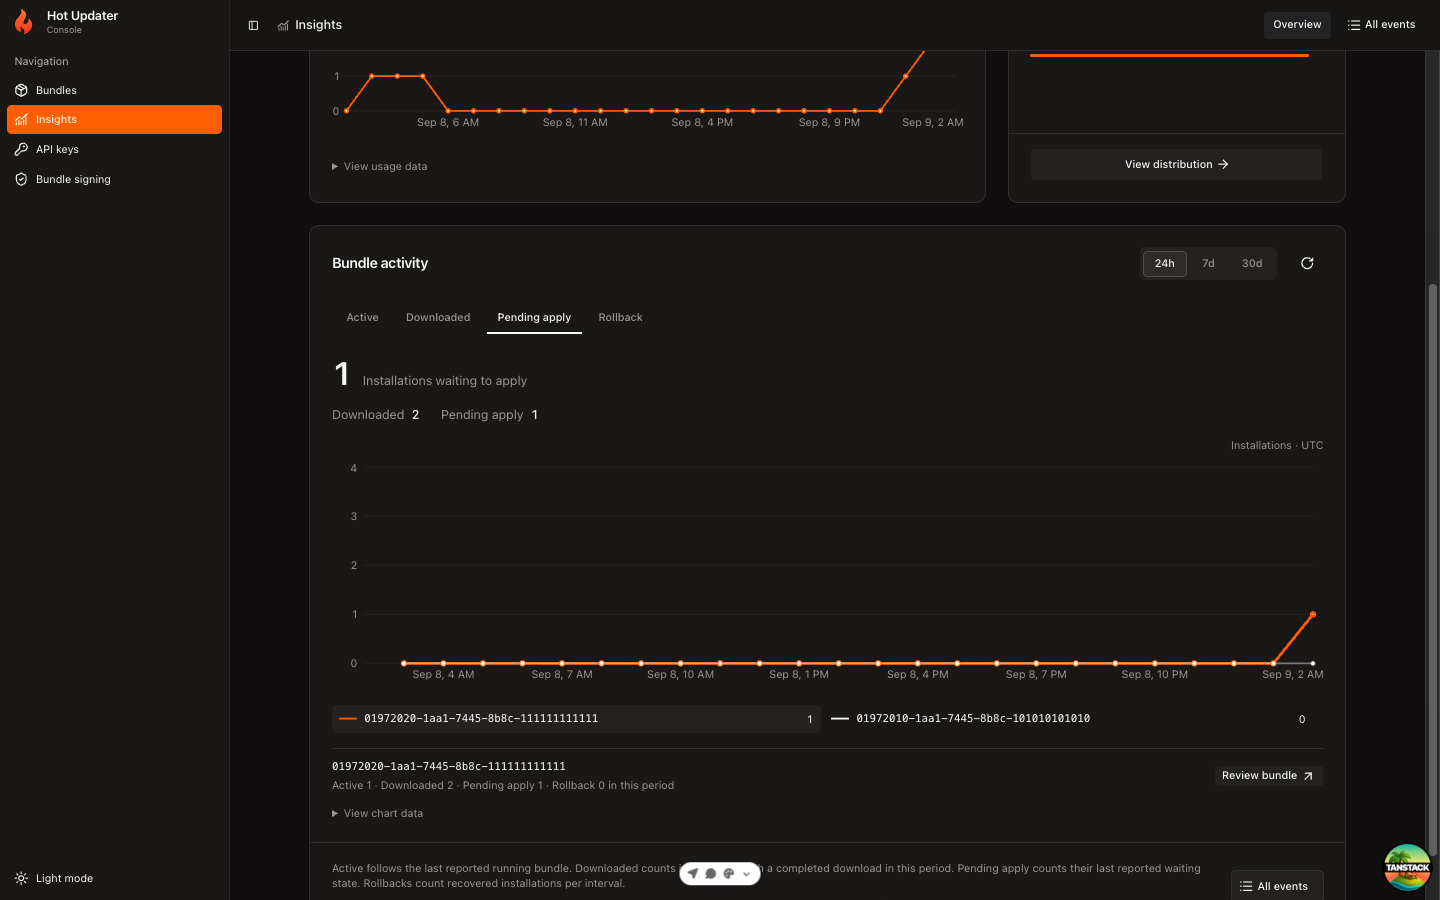
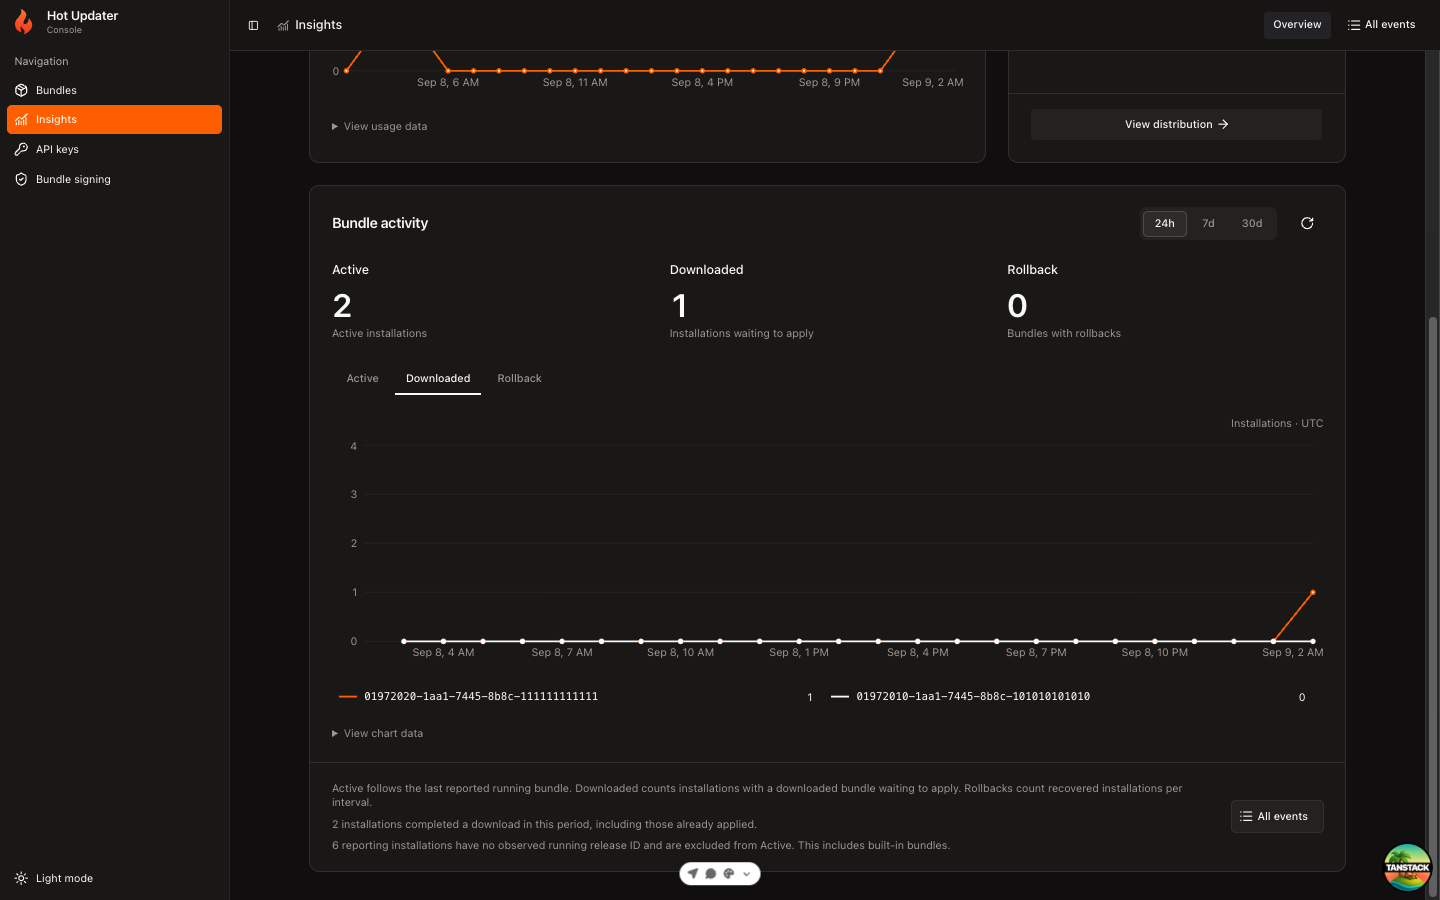
fix(console): keep lifecycle totals visible above chart tabs

diff --git a/packages/console/src/components/features/insights/InsightsOverview.tsx b/packages/console/src/components/features/insights/InsightsOverview.tsx
@@ -54,12 +54,6 @@ const activityMetrics = {
   },
   downloaded: {
     label: "Downloaded",
-    summary: "Downloaded installations",
-    point: "downloadedInstallations",
-    total: "downloadedInstallations",
-  },
-  pending: {
-    label: "Pending apply",
     summary: "Installations waiting to apply",
     point: "pendingInstallations",
     total: "pendingInstallations",
@@ -102,20 +96,16 @@ export function ActivityChart({ report }: { readonly report: RecoveryReport }) {
   const lastSpike = selected
     ? [...selected.points].reverse().find((point) => point.spike)
     : undefined;
-  const total =
-    metric === "rollback"
-      ? report.series.filter((series) => series.recoveredInstallations > 0)
-          .length
-      : metric === "downloaded"
-        ? report.downloadedInstallations
-        : metric === "pending"
-          ? report.pendingInstallations
-          : report.series.reduce(
-              (sum, series) => sum + series[metricInfo.total],
-              0,
-            );
-  const downloaded = report.downloadedInstallations;
-  const pending = report.pendingInstallations;
+  const totals = {
+    active: report.series.reduce(
+      (sum, series) => sum + series.activeInstallations,
+      0,
+    ),
+    downloaded: report.pendingInstallations,
+    rollback: report.series.filter(
+      (series) => series.recoveredInstallations > 0,
+    ).length,
+  };
   return (
     <Tabs
       value={metric}
@@ -125,6 +115,22 @@ export function ActivityChart({ report }: { readonly report: RecoveryReport }) {
       }}
       className="gap-6"
     >
+      <dl
+        aria-label="Bundle activity overview"
+        className="grid grid-cols-1 gap-5 sm:grid-cols-3 sm:gap-6"
+      >
+        {Object.entries(activityMetrics).map(([value, { label, summary }]) => (
+          <div key={value} className="flex flex-col gap-2">
+            <dt className="text-sm font-medium">{label}</dt>
+            <dd className="flex flex-col gap-1">
+              <span className="text-4xl font-semibold tracking-tight tabular-nums">
+                {totals[value as keyof typeof totals].toLocaleString()}
+              </span>
+              <span className="text-xs text-muted-foreground">{summary}</span>
+            </dd>
+          </div>
+        ))}
+      </dl>
       <TabsList
         aria-label="Activity metric"
         variant="line"
@@ -137,29 +143,6 @@ export function ActivityChart({ report }: { readonly report: RecoveryReport }) {
         ))}
       </TabsList>
       <TabsContent value={metric} className="flex flex-col gap-4">
-        <div className="flex items-baseline gap-3">
-          <p className="text-4xl font-semibold tracking-tight tabular-nums">
-            {total.toLocaleString()}
-          </p>
-          <p className="text-sm text-muted-foreground">{metricInfo.summary}</p>
-        </div>
-        <dl
-          className="flex flex-wrap gap-x-6 gap-y-2 text-sm"
-          aria-label="Download summary"
-        >
-          <div className="flex items-baseline gap-2">
-            <dt className="text-muted-foreground">Downloaded</dt>
-            <dd className="font-medium tabular-nums">
-              {downloaded.toLocaleString()}
-            </dd>
-          </div>
-          <div className="flex items-baseline gap-2">
-            <dt className="text-muted-foreground">Pending apply</dt>
-            <dd className="font-medium tabular-nums">
-              {pending.toLocaleString()}
-            </dd>
-          </div>
-        </dl>
         {report.series.length === 0 ? (
           <div className="flex h-48 items-center justify-center text-center text-sm text-muted-foreground">
             No bundle reports in this period. Try another channel or check again
@@ -169,7 +152,7 @@ export function ActivityChart({ report }: { readonly report: RecoveryReport }) {
           <>
             <div>
               <p className="mb-2 text-right text-xs text-muted-foreground">
-                {metric === "active" || metric === "pending"
+                {metric !== "rollback"
                   ? "Installations"
                   : `${metricInfo.label} installations per interval`}{" "}
                 · UTC
@@ -301,10 +284,8 @@ export function ActivityChart({ report }: { readonly report: RecoveryReport }) {
                   </p>
                   <p className="mt-1 text-xs text-muted-foreground">
                     Active {selected.activeInstallations.toLocaleString()} ·
-                    Downloaded{" "}
-                    {selected.downloadedInstallations.toLocaleString()} ·
-                    Pending apply{" "}
-                    {selected.pendingInstallations.toLocaleString()} · Rollback{" "}
+                    Downloaded {selected.pendingInstallations.toLocaleString()}{" "}
+                    waiting to apply · Rollback{" "}
                     {selected.recoveredInstallations.toLocaleString()} in this
                     period
                   </p>
@@ -447,9 +428,13 @@ export function InsightsOverview({
             <>
               <p>
                 Active follows the last reported running bundle. Downloaded
-                counts installations with a completed download in this period.
-                Pending apply counts their last reported waiting state.
+                counts installations with a downloaded bundle waiting to apply.
                 Rollbacks count recovered installations per interval.
+              </p>
+              <p>
+                {query.data.downloadedInstallations.toLocaleString()}{" "}
+                installations completed a download in this period, including
+                those already applied.
               </p>
               {query.data.unattributedInstallations > 0 ? (
                 <p>

diff --git a/packages/console/src/components/features/bundles/BundleInsightsSummary.tsx b/packages/console/src/components/features/bundles/BundleInsightsSummary.tsx
@@ -35,7 +35,7 @@ export function BundleMovementSummary({
       title={
         report.truncated
           ? "Partial history. Counts include only the available reports."
-          : "Active: last observed ID per installation. Rollbacks: distinct installations recovered from this ID in 30 days."
+          : "Active: last observed running ID per installation. Downloaded: waiting to apply. Rollbacks: distinct installations recovered from this ID in 30 days."
       }
       className="flex min-w-[140px] items-baseline gap-3 whitespace-nowrap"
     >
@@ -52,7 +52,7 @@ export function BundleMovementSummary({
         </span>
       </span>
       <span className="flex items-baseline gap-1.5">
-        <span className="text-xs text-muted-foreground">Pending apply</span>
+        <span className="text-xs text-muted-foreground">Downloaded</span>
         <span className="text-sm font-medium tabular-nums">
           {series?.pendingInstallations ?? 0}
         </span>
@@ -103,7 +103,7 @@ export function BundleInsightsSummary({
           </div>
         ) : (
           <>
-            <dl className="grid grid-cols-2 gap-4 sm:grid-cols-4">
+            <dl className="grid grid-cols-3 gap-4">
               <div className="pr-4">
                 <dt className="text-xs text-muted-foreground">Active</dt>
                 <dd className="mt-1 text-xl font-semibold tabular-nums">
@@ -119,15 +119,7 @@ export function BundleInsightsSummary({
                 </dd>
               </div>
               <div>
-                <dt className="text-xs text-muted-foreground">
-                  Downloaded · 24h
-                </dt>
-                <dd className="mt-1 text-xl font-semibold tabular-nums">
-                  {series?.downloadedInstallations ?? 0}
-                </dd>
-              </div>
-              <div>
-                <dt className="text-xs text-muted-foreground">Pending apply</dt>
+                <dt className="text-xs text-muted-foreground">Downloaded</dt>
                 <dd className="mt-1 text-xl font-semibold tabular-nums">
                   {series?.pendingInstallations ?? 0}
                 </dd>
@@ -135,7 +127,8 @@ export function BundleInsightsSummary({
             </dl>
             <BundleActivityChart series={series} />
             <p className="text-xs text-muted-foreground">
-              Last observed active installations · hourly rollbacks
+              Downloaded bundles are waiting to apply. Active follows the
+              running bundle. Rollbacks are counted per hour.
               {report?.truncated ? " · Partial history" : ""}
             </p>
           </>

diff --git a/packages/console/src/components/features/insights/InsightsOverview.spec.tsx b/packages/console/src/components/features/insights/InsightsOverview.spec.tsx
@@ -102,7 +102,7 @@ describe("bundle trends", () => {
     expect(screen.queryByText(/Rollback spike on/)).toBeNull();
   });
 
-  it("switches between distinct downloaded installations and the current pending snapshot", () => {
+  it("keeps all status totals visible while tabs only switch the chart", () => {
     const downloads: RecoveryReport = {
       ...report,
       downloadedInstallations: 5,
@@ -119,17 +119,33 @@ describe("bundle trends", () => {
       })),
     };
     render(<ActivityChart report={downloads} />);
+    const overview = screen.getByLabelText("Bundle activity overview");
+    const initialOverview = overview.textContent;
+    expect(within(overview).getByText("Active")).toBeDefined();
+    expect(within(overview).getByText("100")).toBeDefined();
+    expect(within(overview).getByText("Downloaded")).toBeDefined();
+    expect(within(overview).getByText("2")).toBeDefined();
+    expect(within(overview).getByText("Rollback")).toBeDefined();
+    expect(within(overview).getByText("1")).toBeDefined();
     fireEvent.click(screen.getByRole("tab", { name: "Downloaded" }));
     expect(
       screen.getByLabelText("Downloaded trend for all reported bundle IDs"),
     ).toBeDefined();
-    // Five distinct installations across two releases, not eight release-installation pairs.
-    expect(screen.getAllByText("5").length).toBeGreaterThan(0);
-    fireEvent.click(screen.getByRole("tab", { name: "Pending apply" }));
+    expect(screen.queryByRole("tab", { name: "Pending apply" })).toBeNull();
+    expect(overview.textContent).toBe(initialOverview);
+    const rows = within(
+      screen.getByRole("table", { hidden: true }),
+    ).getAllByRole("row", { hidden: true });
     expect(
-      screen.getByLabelText("Pending apply trend for all reported bundle IDs"),
+      within(rows.at(-1)!)
+        .getAllByRole("cell", { hidden: true })
+        .map((cell) => cell.textContent),
+    ).toEqual(["1", "1"]);
+    fireEvent.click(screen.getByRole("tab", { name: "Rollback" }));
+    expect(overview.textContent).toBe(initialOverview);
+    expect(
+      screen.getByLabelText("Rollback trend for all reported bundle IDs"),
     ).toBeDefined();
-    expect(screen.getAllByText("2").length).toBeGreaterThan(0);
   });
 
   it("keeps IDs beyond a top-five list and exposes exact values without requiring chart interaction", () => {

diff --git a/packages/console/src/components/features/bundles/BundleActivityChart.tsx b/packages/console/src/components/features/bundles/BundleActivityChart.tsx
@@ -11,8 +11,7 @@ import type { RecoverySeries } from "@/lib/insights-recovery";
 
 const config = {
   active: { label: "Active", color: "var(--chart-2)" },
-  pendingInstallations: { label: "Pending apply", color: "var(--chart-1)" },
-  downloadedInstallations: { label: "Downloaded", color: "var(--chart-3)" },
+  pendingInstallations: { label: "Downloaded", color: "var(--chart-1)" },
   recoveredInstallations: {
     label: "Rollback",
     color: "var(--muted-foreground)",
@@ -89,14 +88,6 @@ export function BundleActivityChart({
             fillOpacity={0.04}
             stroke="var(--color-pendingInstallations)"
             strokeDasharray="4 3"
-            isAnimationActive={false}
-            type="linear"
-          />
-          <Area
-            dataKey="downloadedInstallations"
-            fill="var(--color-downloadedInstallations)"
-            fillOpacity={0.04}
-            stroke="var(--color-downloadedInstallations)"
             isAnimationActive={false}
             type="linear"
           />
